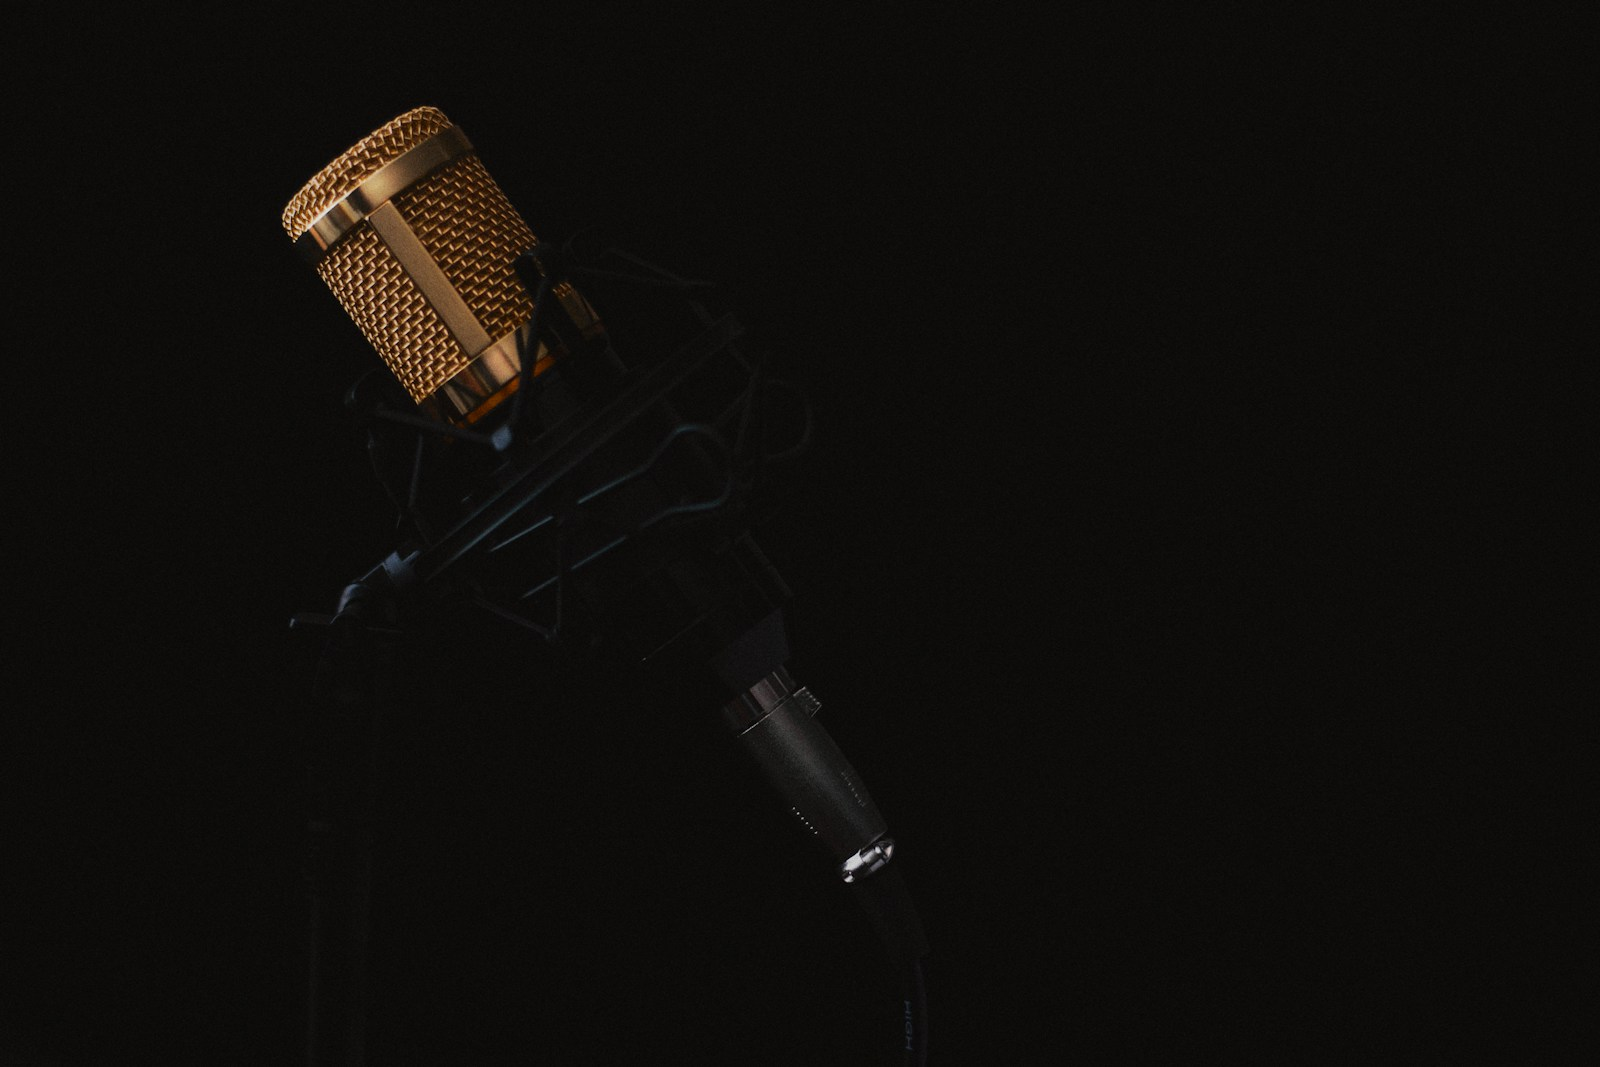
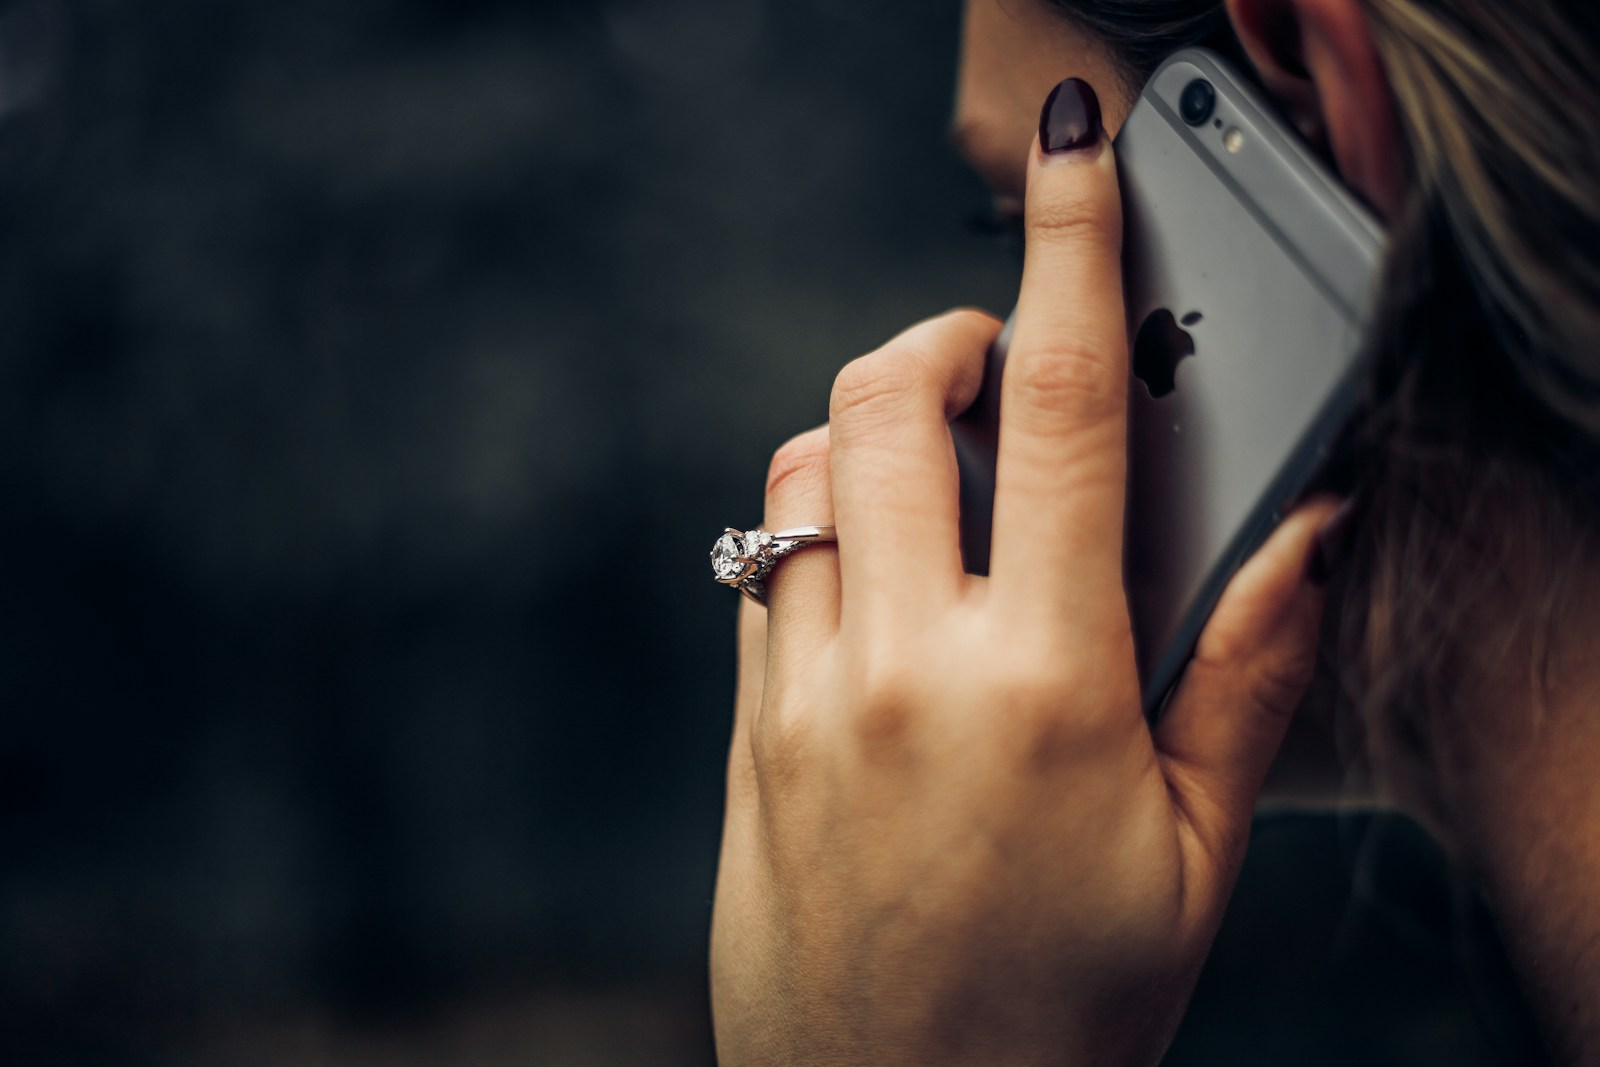
fix(media): call-related images for DialSync & Voice Agent
Replaced the studio-mic photos (read as music/podcast) with a
call-centre agent on a headset (DialSync) and a person on a live phone
call (Voice Agent) — clearer match for call analytics & voice.

diff --git a/src/lib/media.ts b/src/lib/media.ts
@@ -49,8 +49,8 @@ export const img = {
   // Software cards — one unique image per product (dark, on-theme)
   swData: { src: "/assets/img/sw-data.jpg", alt: "Dark analytics dashboard - data cleaning & lead scoring" },
   swWhatsapp: { src: "/assets/img/sw-whatsapp.jpg", alt: "Phone showing WhatsApp chats - bulk messaging campaigns" },
-  swCall: { src: "/assets/img/sw-call.jpg", alt: "Studio microphone under stage light - call capture & analytics" },
-  swVoice: { src: "/assets/img/sw-voice.jpg", alt: "Condenser studio microphone on black - AI voice agent" },
+  swCall: { src: "/assets/img/sw-call.jpg", alt: "Call-centre agent wearing a headset on a call - call capture & analytics" },
+  swVoice: { src: "/assets/img/sw-voice.jpg", alt: "Person on a live phone call - AI voice agent" },
 
   // Founder portrait slot (no file yet → graceful gradient fallback)
   founder: { src: "/assets/img/founder.jpg", alt: "Prince Pratap Shah - Founder & Key Person" },

diff --git a/public/assets/IMAGE-CREDITS.md b/public/assets/IMAGE-CREDITS.md
@@ -1,6 +1,6 @@
 
 ## Software card images (Unsplash, free license — no attribution required)
 - sw-data.jpg  — analytics dashboard (Luke Chesser / Unsplash, JKUTrJ4vK00) → excel-lead-cleaner
-- sw-voice.jpg — studio condenser mic (Unsplash pfhld_5yQrs) → voice-agent
-- sw-call.jpg  — studio mic, stage lighting (Unsplash PMN6wntEQtQ) → dialsync
+- sw-voice.jpg — person on a phone call (Unsplash L3qUP8MpExc) → voice-agent
+- sw-call.jpg  — call-centre agent with headset (Unsplash 5skDrjF5EMw) → dialsync
 - sw-whatsapp.jpg — phone showing WhatsApp app (Amanz / Unsplash juIcqUyhmu0) → whatsapp-campaign